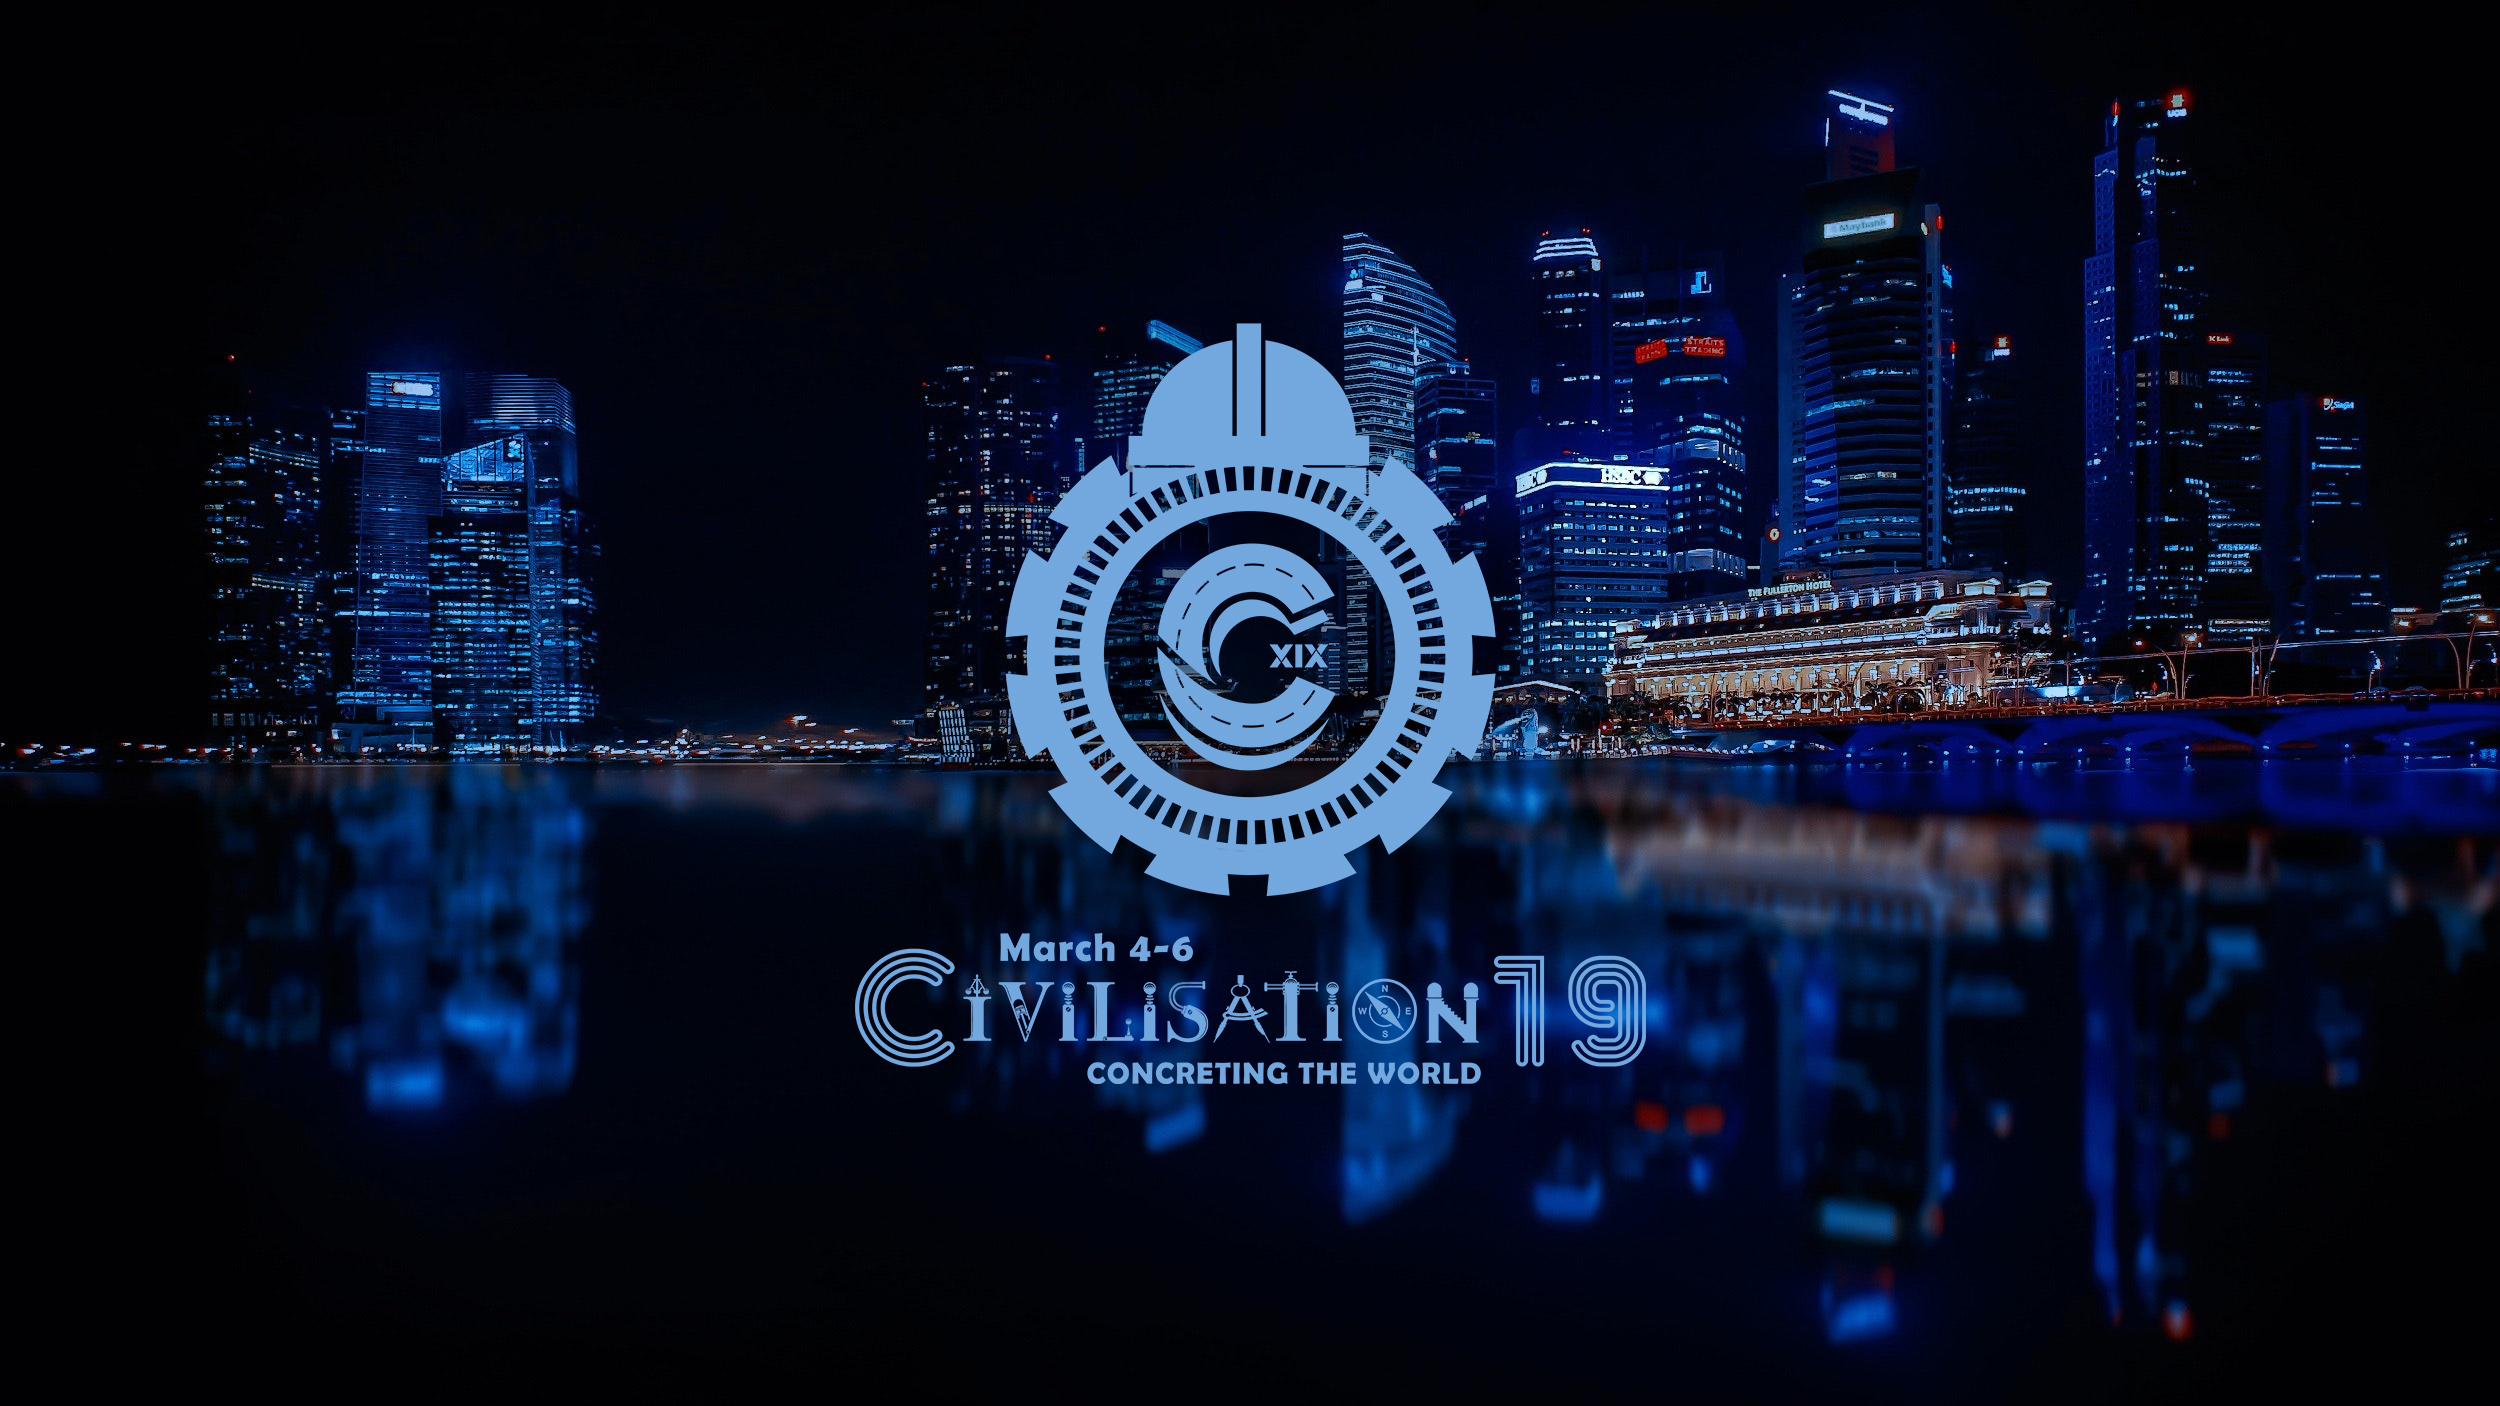
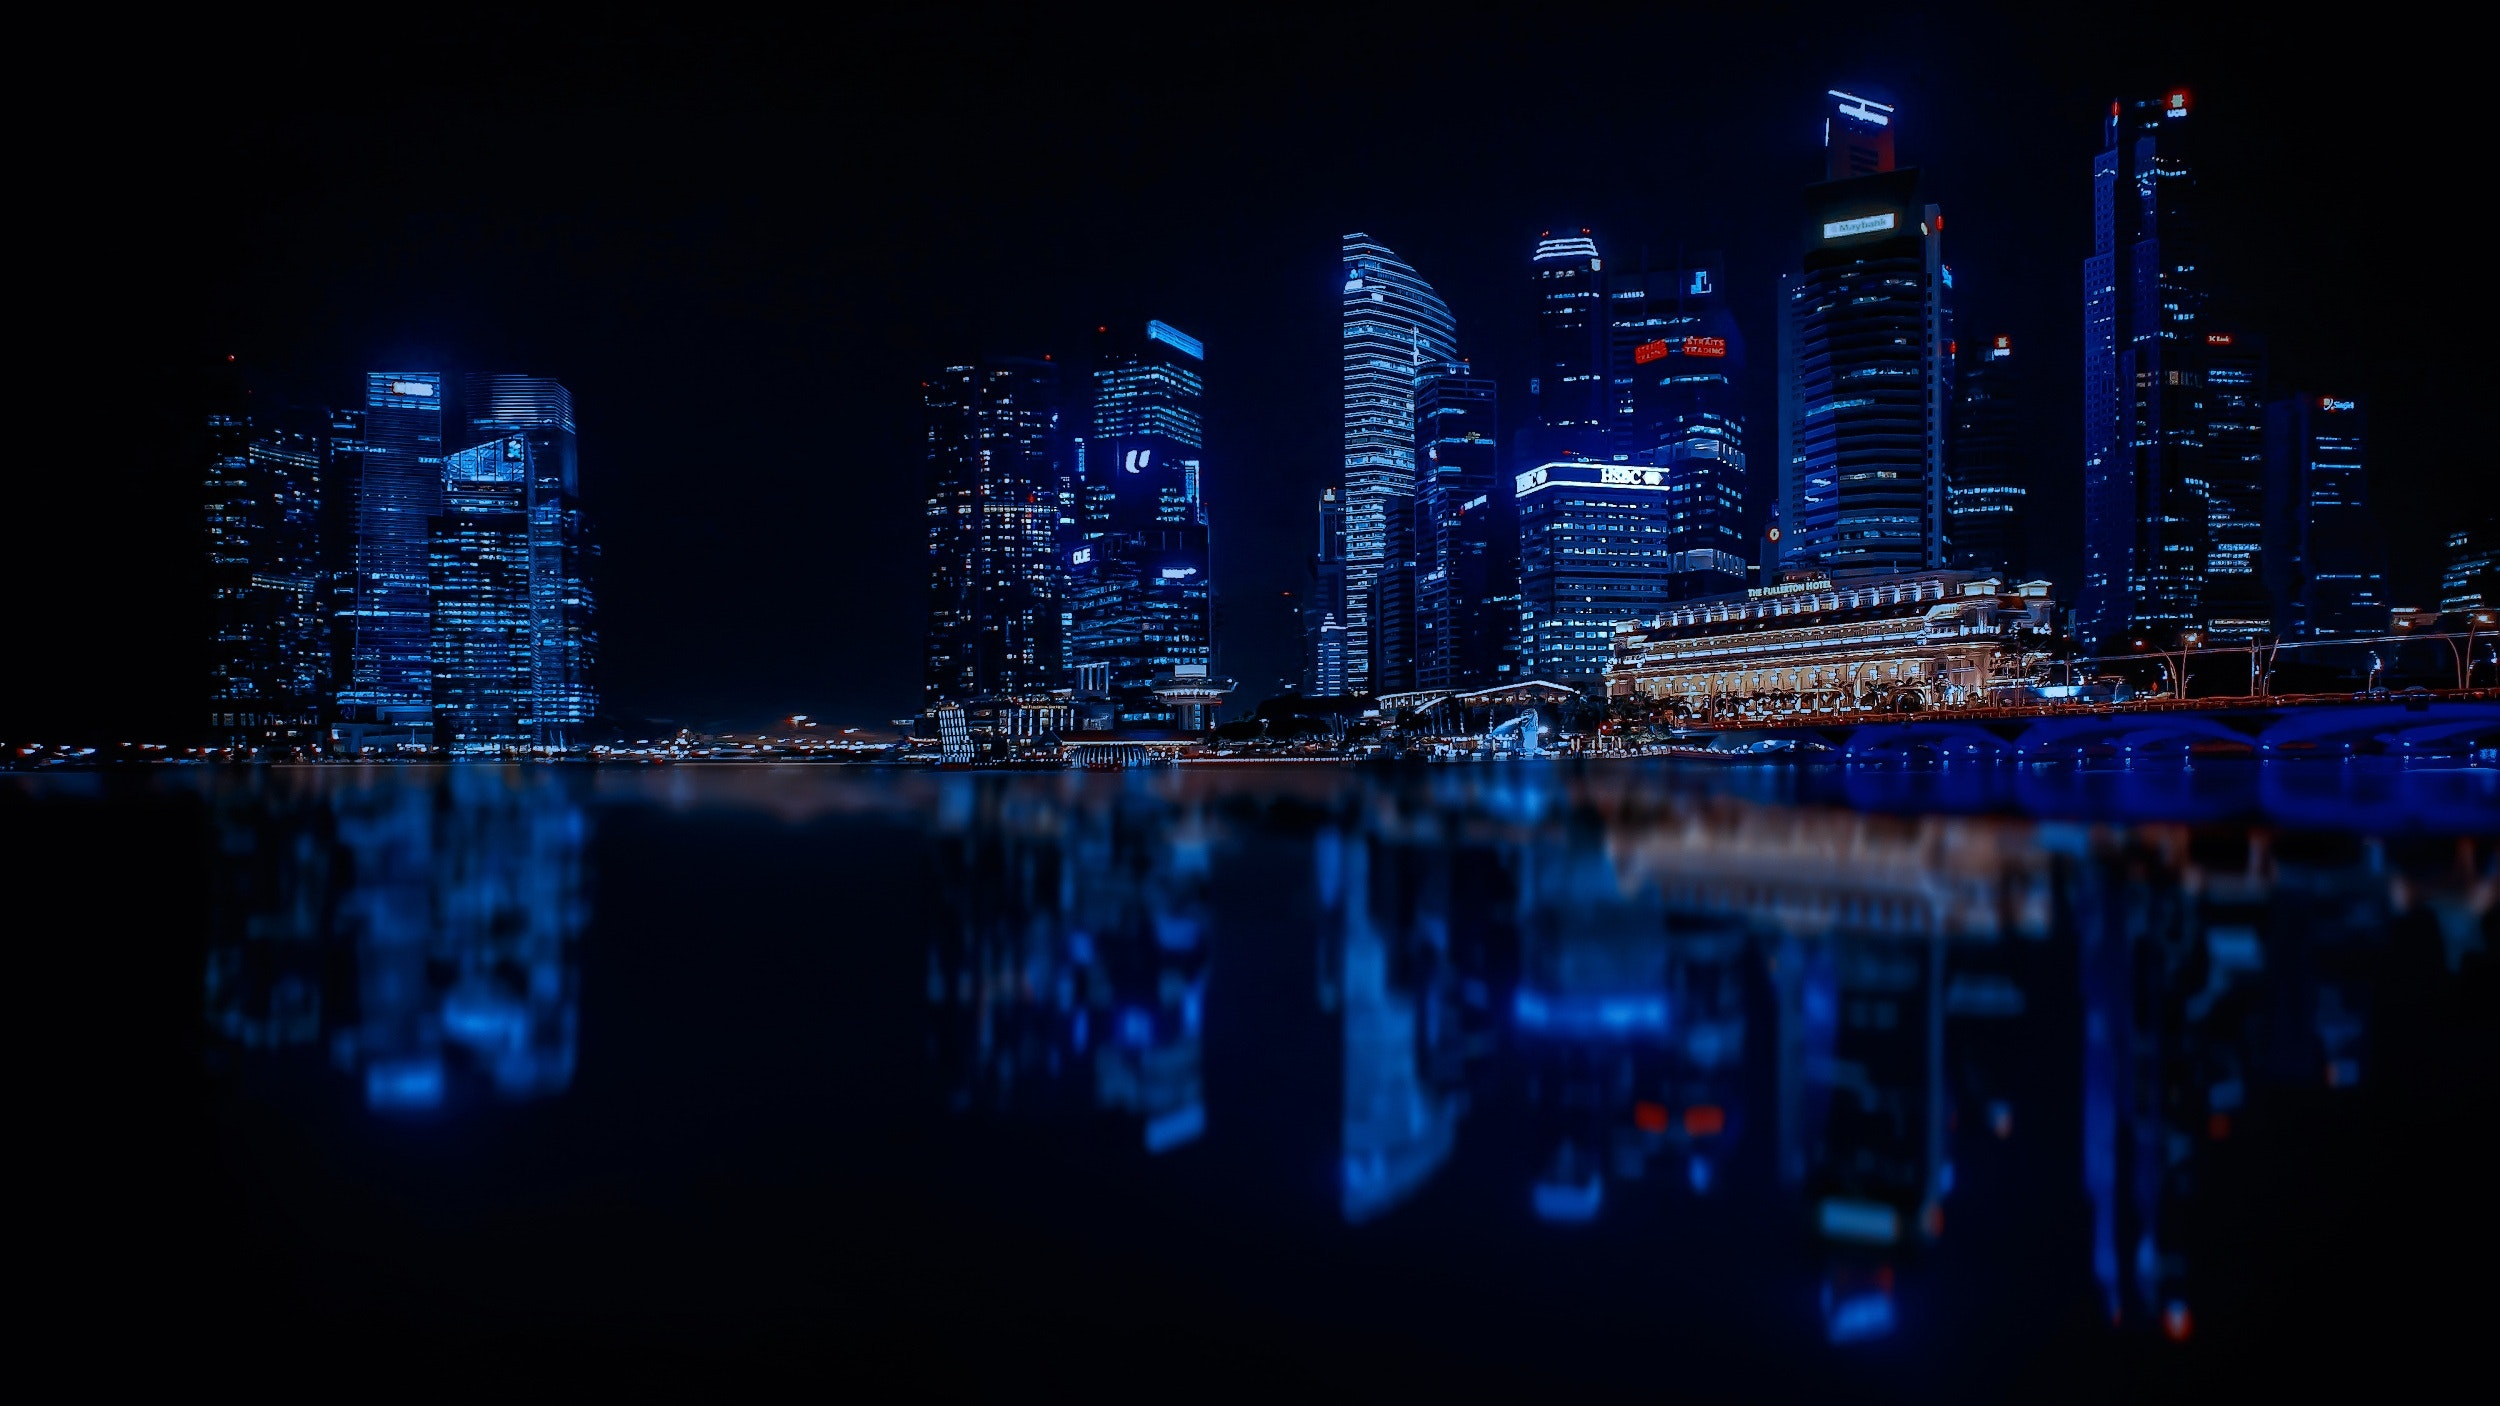
Images loaded

Changed region(s): [[0.3432, 0.2141, 0.6552, 0.7952]]

diff --git a/docs/style.css b/docs/style.css
@@ -237,8 +237,8 @@ body {
 -----------------------------------------------------------*/
 .hero-content {
     padding: 220px 0;
-    background: url("images/cover.jpg") no-repeat;
-    background-size: 100% 100%;
+    background: url("images/logo.png"),url("images/words.png"),url("images/cover.jpg") no-repeat;
+    background-size: 100% 100%,100% 100%;
     height: 100%;
     width: 100%;
     padding-top: 48%;

diff --git a/docs/index.html b/docs/index.html
@@ -64,6 +64,7 @@
         <div class="container">
             <div class="row">
                 <div class="col-12 offset-lg-2 col-lg-10">
+
                     <div class="entry-header">
                         <!--<h2>Symposium!</h2>
 
